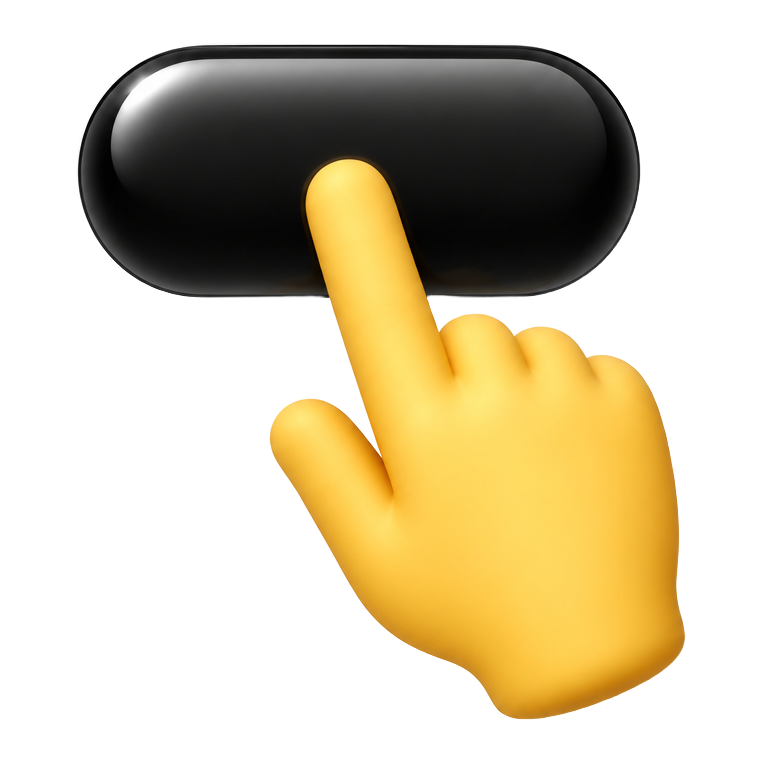
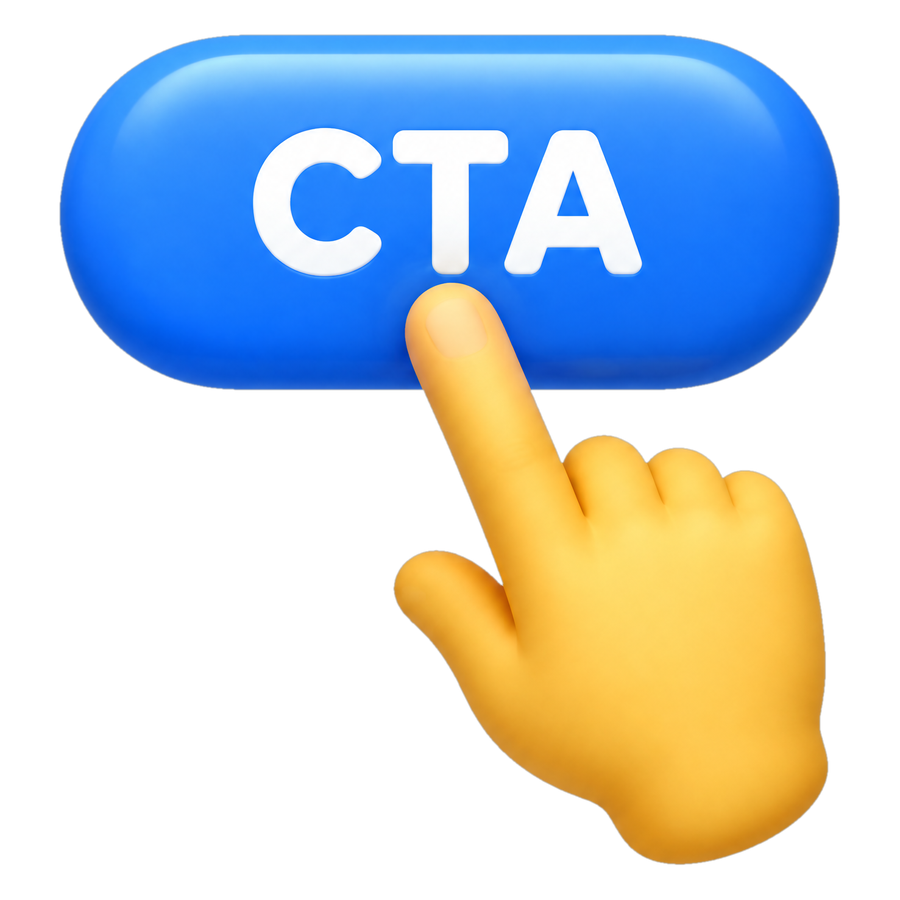
Playbook: new CTA tile image

diff --git a/playbook/index.html b/playbook/index.html
@@ -103,7 +103,7 @@ html[data-mode="dark"] .brand img{content:url("../assets/mark-white.png")}
     <div class="grid c3">
       <a class="tile" href="#hook"><div class="stage"><img src="../assets/lab/pb_hook_t.png?v=1" alt=""></div><h3 class="h3">1. The Hook</h3><p class="lede sub">The first 3 seconds. Get the right people's interest.</p></a>
       <a class="tile" href="#meat"><div class="stage"><img src="../assets/lab/pb_meat_t.png?v=1" alt=""></div><h3 class="h3">2. The Meat</h3><p class="lede sub">Show the app and why it's valuable.</p></a>
-      <a class="tile" href="#cta"><div class="stage"><img src="../assets/lab/pb_cta_t.png?v=1" alt=""></div><h3 class="h3">3. The CTA</h3><p class="lede sub">Tell the viewer what to do. Give them a why.</p></a>
+      <a class="tile" href="#cta"><div class="stage"><img src="../assets/lab/pb_cta_t.png?v=2" alt=""></div><h3 class="h3">3. The CTA</h3><p class="lede sub">Tell the viewer what to do. Give them a why.</p></a>
     </div>
   </div>
 </section>
